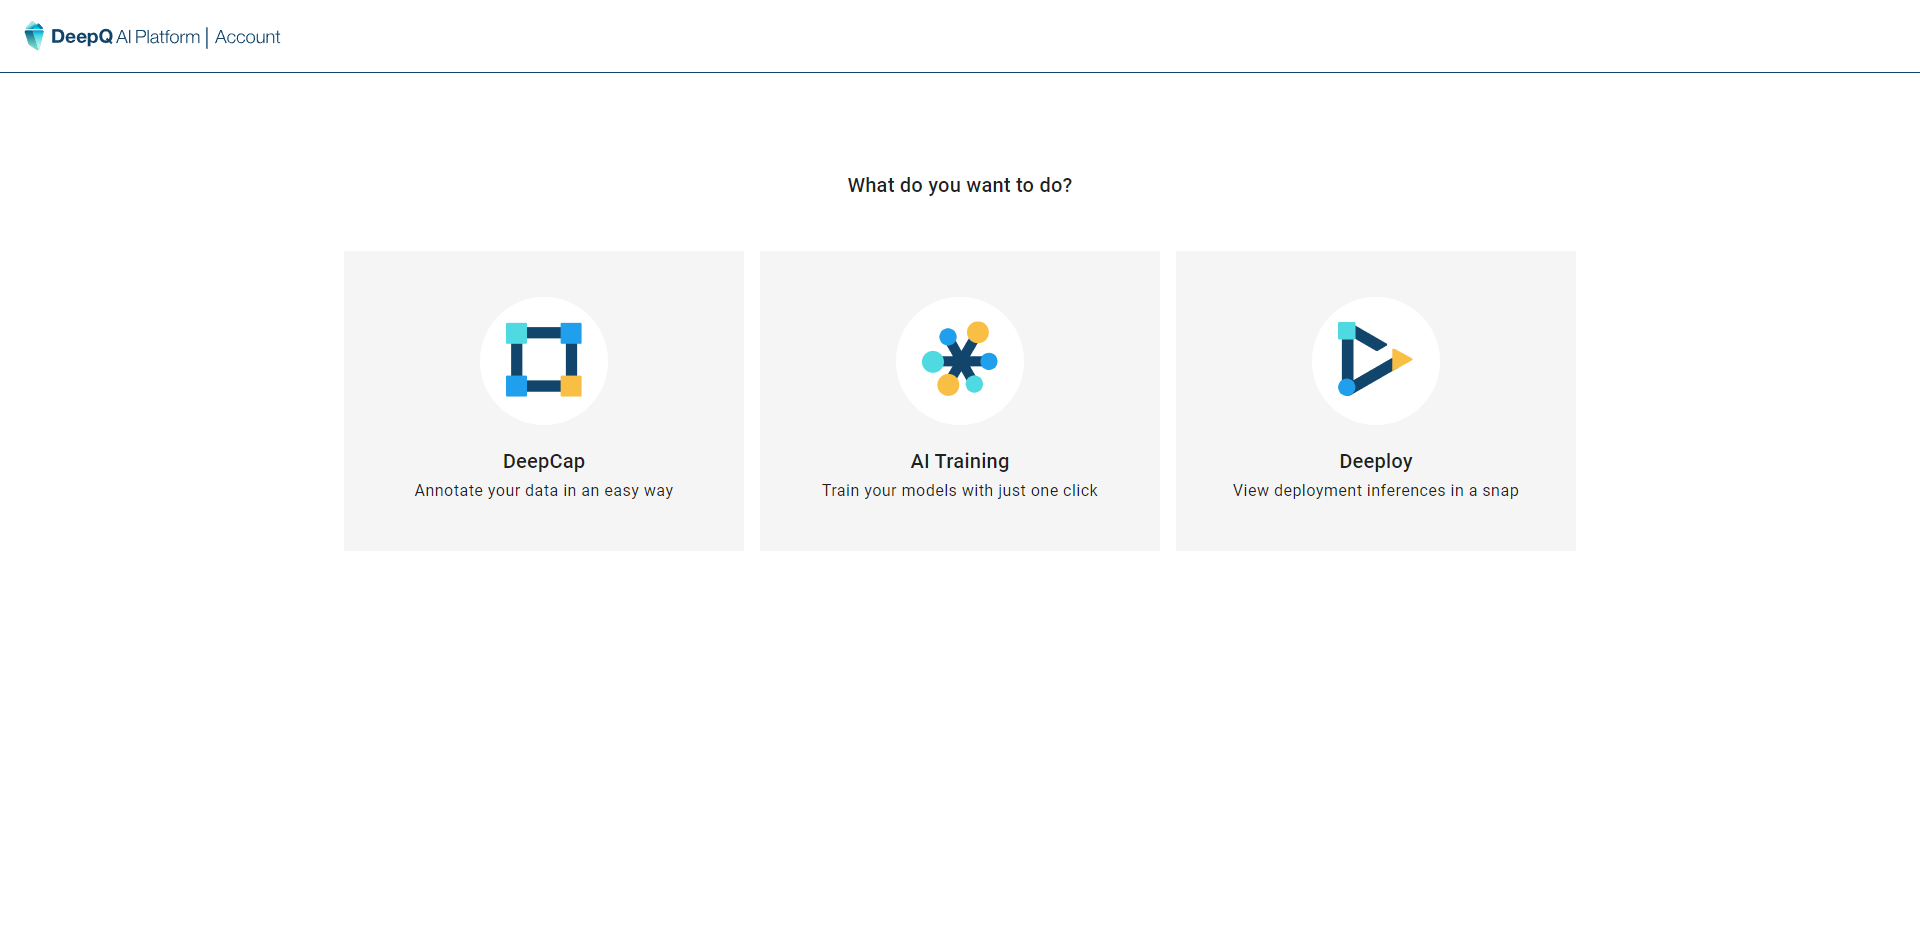
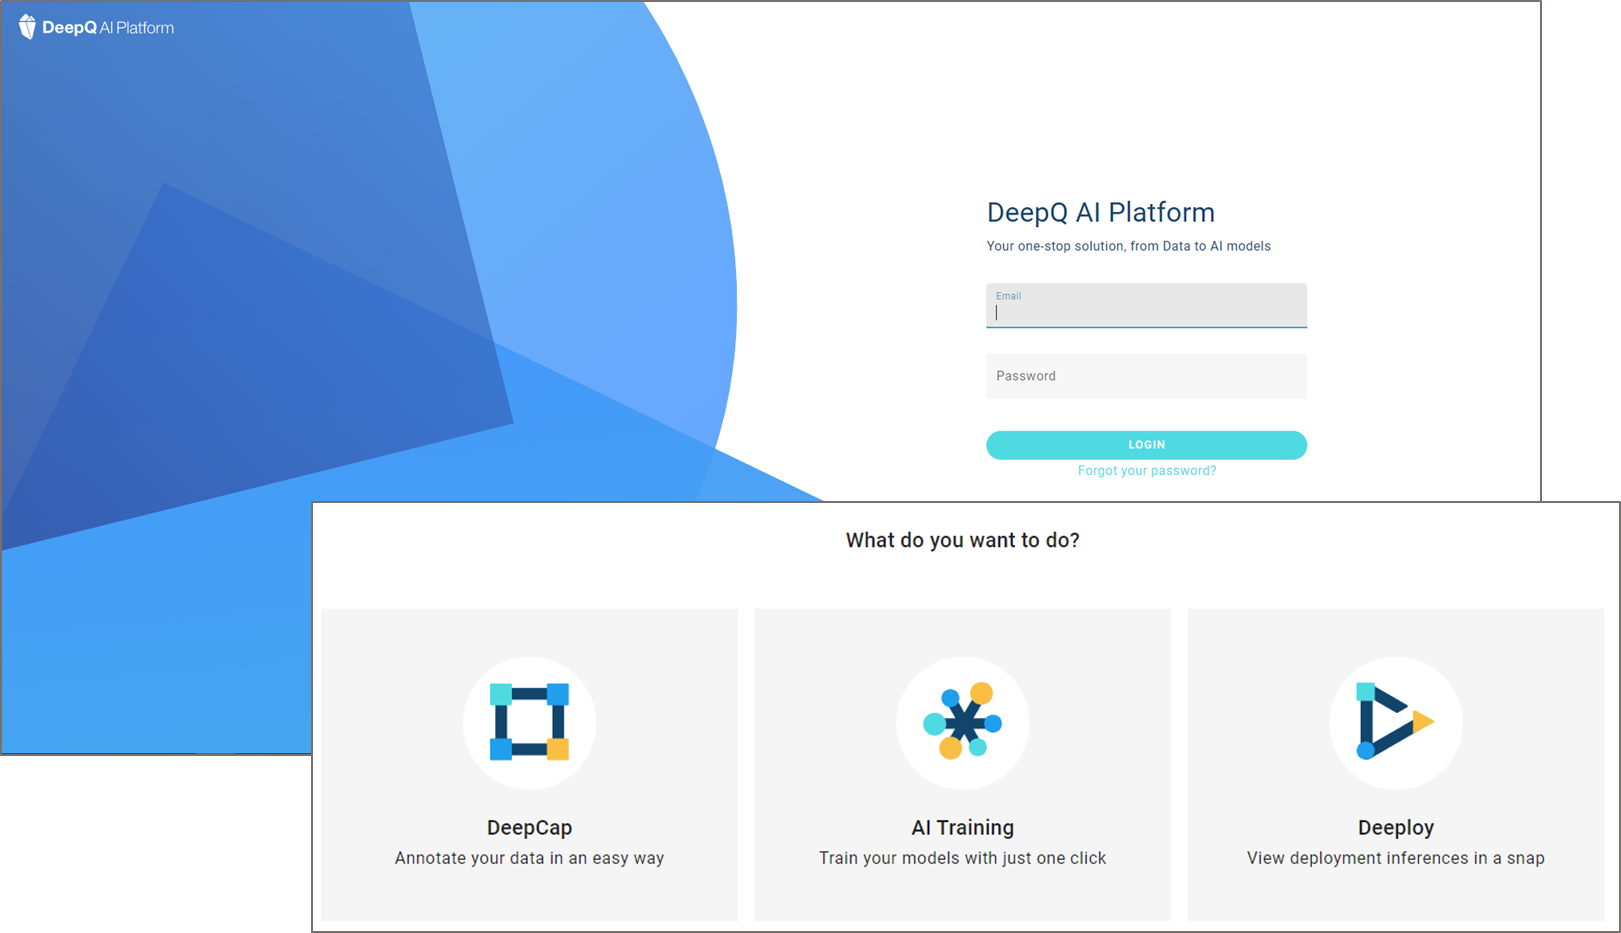
GitBook: [#46] No subject

diff --git a/working-flow-1/deepcap-main-page-introduction.md b/working-flow-1/deepcap-main-page-introduction.md
@@ -1,18 +1,16 @@
 # 1.2 DeepQ AI Platform overview
 
-![](<../.gitbook/assets/1-2.1-300012 (2).png>)
+![](<../.gitbook/assets/image (216).png>)
 
-![](<../.gitbook/assets/1-2.1-300011 (1).png>)
-
-![](<../.gitbook/assets/image (232).png>)
+The moment you log into DeepQ AI Platform, you can choose from the three modules to start from. Please contact the system admin for your module authorization.
 
 ## Platform overview
 
 The complete DeepQ AI Platform consists of three main modules：
 
-* DeepCap：
-* AI Training：
-* Deeploy：
+* DeepCap：Dataset management & image annotation
+* AI Training：Model selection/tuning & evaluation
+* Deeploy：Real-time model deployment, worklist & AI viewer&#x20;
 
 ![The complete DeeQ AI Platform](<../.gitbook/assets/image (221).png>)
 
@@ -56,6 +54,6 @@ The complete DeepQ AI Platform consists of three main modules：
 
 
 
-**Worklist**: Person who create a task will be the project owner. The project owner can check and manage all the tasks in this tab.
+**Worklist**: A complete list of the image studies processed by model deployments that are authorized to you, shown from newest to oldest. Users can filter the worklist by selecting models by clicking on "MODEL".
 
-**Authorized Models**: You can upload datasets in this tab.The system has imposes some limitations on your dataset, please refer to the [“Dataset Format”](https://app.gitbook.com/s/-LRpbrznmSNshCiwmSTG-3251841457/dataset/upload-dataset) and ["Annotation Data Format"](https://app.gitbook.com/s/-LRpbrznmSNshCiwmSTG-3251841457/dataset/annotation-data-formats) tab for detailed information
+**Authorized Models**: You can view the detials of model deployments that are authorized to you. please conatct system admin for model deployment authorization.

diff --git a/working-flow-1/what-is-deep-learning.md b/working-flow-1/what-is-deep-learning.md
@@ -18,6 +18,18 @@ Deep learning uses multiple layers to progressively extract higher level feature
 
 ![](../.gitbook/assets/1-000005.png)
 
+\~[https://en.wikipedia.org/wiki/Training,\_validation,\_and\_test\_sets](https://en.wikipedia.org/wiki/Training,\_validation,\_and\_test\_sets)\~
+
+In machine learning, the model is initially fit on a **training data set**, which is a set of examples used to fit the parameters of the model. The model is trained on the training data set using a supervised learning method, for example using optimization methods such as gradient descent or stochastic gradient descent. The current model is run with the training data set and produces a result, which is then compared to the training data set. Based on the result of the comparison and the specific learning algorithm being used, the parameters of the model are adjusted.
+
+Finally, the **test data set** is a data set used to provide an unbiased evaluation of a _final_ model fit on the training data set.If the data in the test data set has never been used in training.
+
 ## What is Transfer Learning?
 
 ![](../.gitbook/assets/1-000004.png)
+
+\~[https://en.wikipedia.org/wiki/Transfer\_learning](https://en.wikipedia.org/wiki/Transfer\_learning)\~
+
+**Transfer learning (TL)** is a research problem in machine learning (ML) that focuses on storing knowledge gained while solving one problem (source) and applying it to a different but related problem (target). For example, knowledge gained while learning to recognize cats (source) could apply when trying to recognize tigers (target).
+
+\

diff --git a/working-flow/manage-annotation-projects.md b/working-flow/manage-annotation-projects.md
@@ -33,7 +33,7 @@ Dataset that cannot be exported for training.
 * Problematic image: Annotated as “Problematic image” by an annotator.
 *   <mark style="color:red;">**The minimum annotation requirement for each class is 3 images. If the annotation contains class(es) with less than 3 images, it cannot be exported.**</mark>
 
-    ### \*\*\*\*
+    #### \*\*\*\*
 
 ## Annotation Conditions for Training
 

diff --git a/working-flow-1/untitled-1/README.md b/working-flow-1/untitled-1/README.md
@@ -1,6 +1,6 @@
 # 1.3 User profile & account management
 
-## Three roles in DeepQ AI Platform
+## Three roles in DeepCap
 
 * **Project Owner:** The owner of an annotation project & training task. He/ She can upload, create and manage datasets, annotation projects, and training tasks.
 * **Reviewer:** Assigned by the project owner to review the labeling results pass down by annotators.

diff --git a/dataset/annotation-data-formats.md b/dataset/annotation-data-formats.md
@@ -25,7 +25,7 @@
 * Pure number (e.g. 001) as class names must be double quoted. (e.g. "001").
 *   <mark style="color:red;">**The minimum annotation requirement for each class is 3 images. If the dataset contains class(es) with less than 3 images, the dataset will be rejected**</mark>
 
-    ### \*\*\*\*
+    #### \*\*\*\*
 
 ## Object Segmentation:
 
